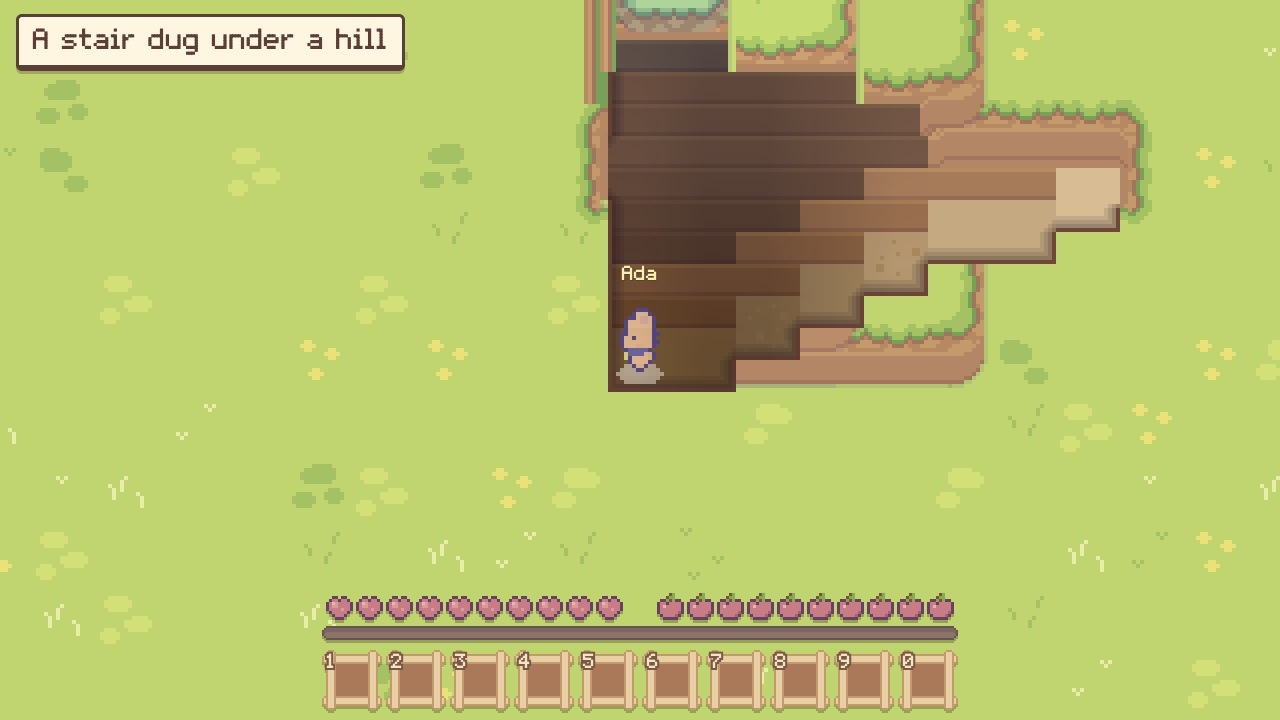
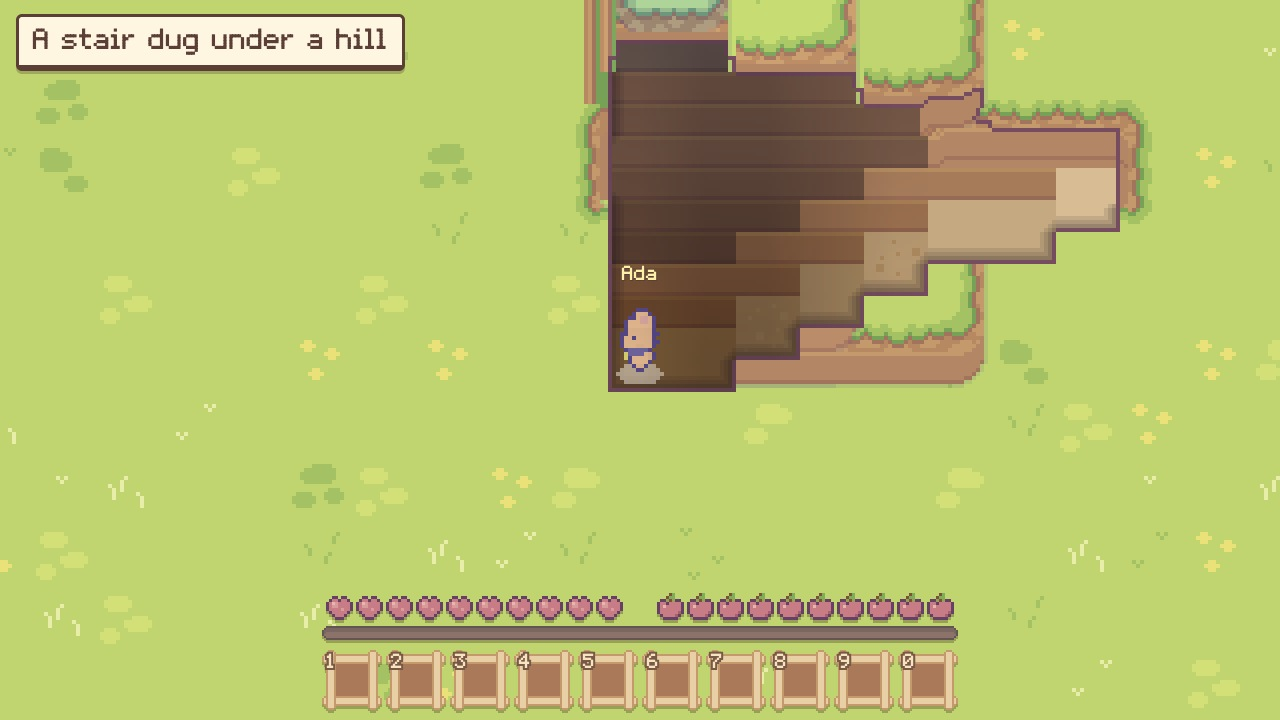
fix(web): the outline goes round the place itself, as one shape, and is
The outline goes round the place itself, as one shape, and is the usual view ("top outline is kinda broken. Also make outline the default")

It was round all that the ground in front had been drawn over: a tile out from the cut on top and on each side (the
tiles beside the place are in the picture with their own edge), across a stair's wall, round the sliver of meadow a
hill's side had covered. Behind a hill and no more it is as it was. Both clips on the demo's page are filmed again.

Claude-Session: https://claude.ai/code/session_011zaXs2MUMAd8vYwC7YncED

diff --git a/src/megastructure/web/js/xraycut.js b/src/megastructure/web/js/xraycut.js
@@ -10,7 +10,9 @@
 //    earth stopped square against the grass). Not over it where the land's own edge is (its grass hangs there), nor
 //    toward ground that goes on level with it (a way out).
 // c: the picture's {W, h (px), w (tiles), R (its rect of tiles), y (its top, art px), see, seen, floor, floors, place,
-// rocks}. -> {px: what to lay over it, cut: the tiles of 1, more: the px it added to seen}
+// rocks}. -> {px: what to lay over it, cut: the tiles of 1, more: the px it added to seen, deep: the px that show
+// the place where it is under a roof, dug or cut, seen through or not (the outline goes round them: xrayviews.js;
+// null: none, a hill in front and no more)}
 const CUT = {earth: 110, ink: [112, 70, 58], lip: [.34, .22, .11]};   // how dark earth cut through is (of 255); the edge's ink; its shadow, a px each
 function xrayCut({W, h, w, R, y, see, seen, floor, floors, place, rocks}) {
   const n = W * h, px = new Uint32Array(n), al = new Float32Array(n), fill = new Uint8Array(n), cut = new Set(), sa = CUT.earth / 255;
@@ -29,9 +31,11 @@ function xrayCut({W, h, w, R, y, see, seen, floor, floors, place, rocks}) {
   const deepT = new Uint8Array(w * R.h), tileOf = (f, d = 0) => { const i = f % W >> 4, j = Math.floor((y + (f / W | 0) + shOf(see.lev[f]) + d) / 16) - R.y; return j >= 0 && j < R.h ? j * w + i : -1; };
   for (const [k, lv] of floors) if (lv < 0 || floor.has(k) || cut.has(k)) { const [x, ty] = k.split(",").map(Number), i = x - R.x, j = ty - R.y; if (i >= 0 && i < w && j >= 0 && j < R.h) deepT[j * w + i] = 1; }
   for (const k of cut) { const [x, ty] = k.split(",").map(Number); deepT[(ty - R.y) * w + x - R.x] = 1; }
-  const deep = new Uint8Array(n), dist = new Uint8Array(n).fill(255), todo = [];
+  const deep = new Uint8Array(n), dist = new Uint8Array(n).fill(255), todo = [], lvT = R.lk || R.lv;
   for (let f = 0; f < n; f++) if (see.state[f] === 1 || fill[f]) {
-    const t = tileOf(f, see.band[f] ? 4 : 0), ts = tileOf(f);   // (a band starts a px or two over the line between two tiles where a hill's edge is set in: it is of the tile in front all the same)
+    // (a band starts a px or two over the line between two tiles where a hill's edge is set in, and under each band a
+    // px or two of the tile behind show, painted a level down: its body. Both are of the tile in front all the same)
+    const ts = tileOf(f), body = see.band[f] || (ts >= 0 && see.lev[f] < lvT[((ts / w | 0) + 2) * (w + 4) + ts % w + 2]), t = body ? tileOf(f, 4) : ts;
     if (t < 0 || !deepT[t]) continue;
     deep[f] = 1;
     if (ts >= 0 && seen[f] && see.band[f] && !fill[f] && floor.has((R.x + ts % w) + "," + (R.y + (ts / w | 0))) && landSolid(R.x + ts % w, R.y + (ts / w | 0), see.lev[f])) al[f] = sa;   // 2
@@ -63,5 +67,5 @@ function xrayCut({W, h, w, R, y, see, seen, floor, floors, place, rocks}) {
     if (fill[f]) px[f] = pack(earth.map((v, q) => v * (1 - lip) + [30, 20, 28][q] * lip), 1);
     else if (al[f] || lip) px[f] = pack([30, 20, 28], 1 - (1 - al[f]) * (1 - lip));
   }
-  return {px, cut, more};
+  return {px, cut, more, deep: deep.includes(1) ? deep : null};
 }

diff --git a/src/megastructure/web/js/xray.js b/src/megastructure/web/js/xray.js
@@ -226,10 +226,10 @@ function* xrayPicture(tx, key, near) {
   let any = 0;
   for (let f = 0; f < seen.length; f++) if ((see.cover[f] || XRAY.whole) && see.state[f] === 1) { seen[f] = 1; any++; m[f] = 0xff000000; if (see.wet[f]) wm[f] = 0xff000000; }
   const og = over.getContext("2d"); og.globalCompositeOperation = "destination-in"; og.drawImage(pxCanvas(m, W, h), 0, 0);
-  const {px: earth, cut, more} = xrayCut({W, h, w, R, y, see, seen, floor, floors, place, rocks});   // (the earth cut through, and the cut's edge: xraycut.js)
+  const {px: earth, cut, more, deep} = xrayCut({W, h, w, R, y, see, seen, floor, floors, place, rocks});   // (the earth cut through, and the cut's edge: xraycut.js)
   any += more; og.globalCompositeOperation = "source-over"; og.drawImage(pxCanvas(earth, W, h), 0, 0);
   const mouths = [...floor.keys()].filter((k) => { const [fx, fy] = k.split(",").map(Number); return [[1, 0], [-1, 0], [0, 1], [0, -1]].some(([dx, dy]) => topAt(fx + dx, fy + dy) < topAt(fx, fy)); }).sort().join(" ");
-  return {key, x: R.x * 16, y, w: W, h, over, wet: pxCanvas(wm, W, h), seen, any, rock: rocks, floor, cut, mouths, place: floors, lev: see.lev, depth: underDepths(floor), rx: R.x, ry: R.y, rw: w, rh: R.h};
+  return {key, x: R.x * 16, y, w: W, h, over, wet: pxCanvas(wm, W, h), seen, deep, any, rock: rocks, floor, cut, mouths, place: floors, lev: see.lev, depth: underDepths(floor), rx: R.x, ry: R.y, rw: w, rh: R.h};
 }
 
 // The circle itself, over the land and under everything standing on it (in the other views: drawXrayWhole)

diff --git a/tools/pages/showcase.html b/tools/pages/showcase.html
@@ -39,7 +39,7 @@
     <li><b>Light</b> decides what you see: daylight a few steps in from the way out, a little round you, more round
       a fire however far it is. The rest is there, dark.</li>
     <li>At night a fire under ground lights the tunnel, not the meadow over it.</li>
-    <li><b>V</b> changes how what hides you is shown, here too: cut away, outline, faded, circle.</li>
+    <li><b>V</b> changes how what hides you is shown, here too: outline (the usual one), faded, circle, cut away.</li>
   </ol>
 
   <h2>Four ways to see what hides you</h2>
@@ -47,10 +47,10 @@
     keep the one you like. <b>V</b> goes from one to the next:</p>
   <video class="clip" src="views.mp4" poster="views.jpg" controls muted loop playsinline preload="metadata"></video>
   <ol>
-    <li><b>Cut away</b> (the usual one): what is over you or in front of you is not drawn at all.</li>
-    <li><b>Outline</b>: only its edges are drawn, so you still see where it is.</li>
+    <li><b>Outline</b> (the usual one): what is over you or in front of you is not drawn; a line shows where it is.</li>
     <li><b>Faded</b>: it is drawn faint.</li>
-    <li><b>Circle</b>: as before, a circle round you is seen through it.</li>
+    <li><b>Circle</b>: a circle round you is seen through it.</li>
+    <li><b>Cut away</b>: not drawn at all, and no line.</li>
     <li>Also in <b>Esc</b>, Settings, Picture: "What hides you". In build mode the same goes for every floor over
       the cursor's.</li>
   </ol>

diff --git a/src/megastructure/web/js/xrayviews.js b/src/megastructure/web/js/xrayviews.js
@@ -28,10 +28,14 @@ function drawXrayWhole(sx, sy) {
   ctx.drawImage(c, 0, 0, w, h, sx(0) + x0 * zoom, sy(0) + y0 * zoom, w * zoom, h * zoom);
   ctx.globalAlpha = 1;
 }
-// The edges of what the rock was drawn over (the picture's seen), an art px wide, in ink: made once a picture
+// The outline, an art px wide, in ink, made once a picture. In the ground or under a roof: round the place itself,
+// as one shape (its px where it is dug, under a roof or cut, seen through or not: a hole's open part is of it, no
+// line across it; the line was round all that the ground in front was drawn over, and so round the tiles beside the
+// place that are in the picture with their own edge, a tile out from the cut on every side, and round the sliver of
+// meadow a hill's side had covered). Behind a hill and no more: round what the hill was drawn over
 function xrayEdges(Q) {
   if (Q.edges) return Q.edges;
-  const m = new Uint32Array(Q.w * Q.h), s = Q.seen, W = Q.w, ink = 0xff604c75;          // (the walls' ink, #754c60: structures.js; as a little-endian px)
+  const m = new Uint32Array(Q.w * Q.h), W = Q.w, ink = 0xff604c75, s = Q.deep || Q.seen;   // (the walls' ink, #754c60: structures.js; as a little-endian px)
   for (let y = 0; y < Q.h; y++) for (let x = 0; x < W; x++) {
     const f = y * W + x;
     if (s[f] && (x === 0 || y === 0 || x === W - 1 || y === Q.h - 1 || !s[f - 1] || !s[f + 1] || !s[f - W] || !s[f + W])) m[f] = ink;

diff --git a/src/megastructure/web/js/options.js b/src/megastructure/web/js/options.js
@@ -11,7 +11,7 @@ const OPT_DEFAULT = {
   often: "normal",        // how long the silences between two pieces of music are: often, normal, rarely
   // picture
   sharp: "auto",          // device px a CSS px: auto (2, and 1 on a machine that cannot keep up), full (2), light (1)
-  above: "cut",           // what hides you (a floor over you, a house or the ground in front): cut (away), outline, faded, circle (VIEWS)
+  above: "outline",       // what hides you (a floor over you, a house or the ground in front): cut (away), outline, faded, circle (VIEWS; "make outline the default")
   night: 0,               // how much the night is lit up, 0 (as it is) to 100
   particles: "all",       // all, fewer, none
   shake: true,            // the ground shakes when a fall hurts

diff --git a/tests/e2e/test_e2e_digging.py b/tests/e2e/test_e2e_digging.py
@@ -256,3 +256,24 @@ def test_where_the_cut_ends_it_has_an_edge_a_line_and_a_shadow_in_from_it(game):
     assert px(X, y, -4, 0, 8)[1:] != ink and px(X, y, -4, 15, 8)[1:] != ink            # between two of its floors: nothing
     assert not game.errors
 
+
+def test_the_outline_goes_round_the_place_itself_and_is_the_usual_view(game):
+    """"Top outline is kinda broken. Also make outline the default": the outline was round all that the ground in
+    front was drawn over, so a tile out from the cut on every side (the tiles beside the place are in the picture
+    with their own edge) and across a stair's wall where the meadow's edge had been. It goes round the place itself,
+    as one shape: along the top of its wall, its floor's front, its end; nothing a tile out, nothing across it."""
+    assert game.js("opt('above')") == "outline"
+    game.clear_area(12)
+    x, y = game.pos()
+    game.stamp(1, 0, ["........"], levels=["abcddddd"], roofs=["00004444"], heads=["00002222"])
+    X = x + 6
+    game.rpc("dev_teleport", x=X, y=y, z=-4)
+    game.wait(f"myAt && myAt.x === {X} && myAt.z === -4", 8000)
+    game.wait(DRAWN, 8000); game.wait(SEEN, 20000)
+    line = lambda *a: game.js("""([x, y, lv, ax, ay]) => { const P = xray.pic, X = x * 16 + ax - P.x, Y = y * 16 - shOf(lv) + ay - P.y;
+      return xrayEdges(P).getContext('2d').getImageData(X, Y, 1, 1).data[3] > 0; }""", list(a))
+    assert line(X, y, 0, 8, 0) and line(X, y, -4, 8, 15) and line(x + 8, y, -4, 15, 8)       # the top of its wall, its floor's front, its end
+    assert not line(X, y - 1, 0, 8, 0) and not line(X, y - 1, 0, 8, 8) and not line(x + 9, y, -4, 8, 8)   # a tile out: nothing
+    assert not line(X, y, -4, 8, 8) and not line(X, y, 0, 8, 12) and not line(x + 2, y, -2, 8, 8) and not line(x + 2, y, 0, 8, 6)   # across it, the stair's wall too: nothing
+    assert not game.errors
+

diff --git a/tests/e2e/test_e2e_views.py b/tests/e2e/test_e2e_views.py
@@ -9,12 +9,12 @@ ROW = "document.querySelector('#menu .row.on .name').textContent"
 
 
 def test_v_goes_through_the_four_views_and_the_picture_page_has_them(game):
-    assert game.js("opt('above')") == "cut"                   # (the one the user chose)
+    assert game.js("opt('above')") == "outline"               # (the usual one: "make outline the default")
     seen = []
     for _ in range(4):
         game.press("v", 250)
         seen.append([game.js("opt('above')"), game.toast()])
-    assert [s[0] for s in seen] == ["outline", "faded", "circle", "cut"] and "Outline" in seen[0][1] and "Cut away" in seen[3][1]
+    assert [s[0] for s in seen] == ["faded", "circle", "cut", "outline"] and "Faded" in seen[0][1] and "Outline" in seen[3][1]
     assert game.js("JSON.parse(localStorage.getItem('megastructure-options') || '{}').above") is None     # (back at the usual one: nothing kept)
     game.press("Escape"); game.press("ArrowDown"); game.press("Enter"); game.press("Tab")
     for _ in range(12):
@@ -22,7 +22,7 @@ def test_v_goes_through_the_four_views_and_the_picture_page_has_them(game):
             break
         game.press("ArrowDown", 40)
     game.press("ArrowRight")
-    assert game.js("opt('above')") == "outline"
+    assert game.js("opt('above')") == "faded"
     game.press("Escape"); game.press("Escape")
 
 

diff --git a/tools/film_underground.py b/tools/film_underground.py
@@ -28,7 +28,6 @@ def scene(g, rec):
     cx, cy = x + 4, y + 8                                                         # a stair down to two tunnels side by
     stamp(cx, cy, ["...."], ["abcd"])                                             #  side under the meadow, a fire in one
     stamp(cx + 4, cy, [".....^..", ".", "........"], ["d" * 8, "d", "d" * 8], roofs=["4" * 8, "4", "4" * 8], heads=["2" * 8, "2", "2" * 8])
-    g.js("setOpt('above', 'cut')")
     g.rpc("dev_time", phase=.4)
 
     def tp(tx, ty, z, wait=1100):
@@ -48,7 +47,7 @@ def scene(g, rec):
     g.hold(["ArrowUp"], 1900); g.sleep(700)
     g.hold(["ArrowRight"], 800); g.sleep(500)
     g.hold(["ArrowLeft"], 1500); g.sleep(900)
-    for i in range(4):                                         # V through the four views, in the cave
+    for i in range(4):                                         # V through the four views, in the cave (from the usual one, the outline)
         if i:
             g.press("v", 0)
         caption(g, f"V: {NAMES[g.js('opt(`above`)')]}"); g.sleep(1500)

diff --git a/JOURNAL.md b/JOURNAL.md
@@ -2151,4 +2151,14 @@ not its body).
   hill's edge is set in two px: those two rows were taken for the tile behind, a border two px high with its shadow
   round it). The line is the land's brown, a little darker (112, 70, 58), not ink. Looked at px by px at the
   junctions (a map of what each px is), then on the 24 situations.
+- Then: "Top outline is kinda broken. Also make outline the default". The outline view (V) drew its line round
+  all that the ground in front had been drawn over. Since iteration 151 that is more than the cut: the tiles beside
+  the place are in the picture with their own edge, so the line ran a tile out from the cut, on top and on each
+  side; it also crossed a stair's wall where the meadow's edge had been, and went round the sliver of meadow a
+  hill's side had covered. Now, in the ground or under a roof, the outline goes round the place itself as one
+  shape (xraycut.js says which px are the place's: dug, under a roof or cut, seen through or not; a wall's
+  in-between px, the tile behind painted a level down, count as the tile in front, like its bands); behind a hill
+  and no more it is as it was. Outline is the usual view (options.js): who never chose gets it, who chose keeps
+  theirs. Looked at on the 24 situations in the usual view. Tests: the line along a tunnel's wall top, its floor's
+  front and its end, none a tile out, none across it or the stair's wall; V starts from the outline.
 
